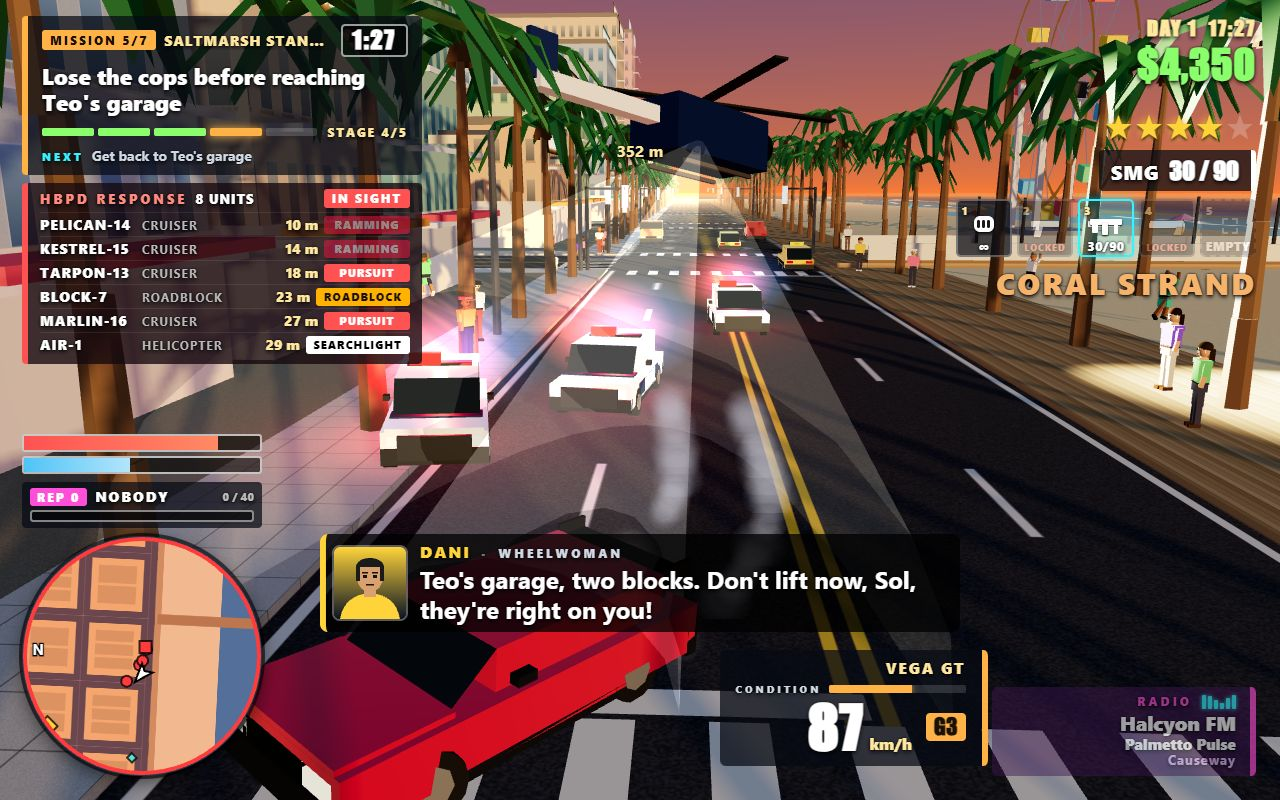
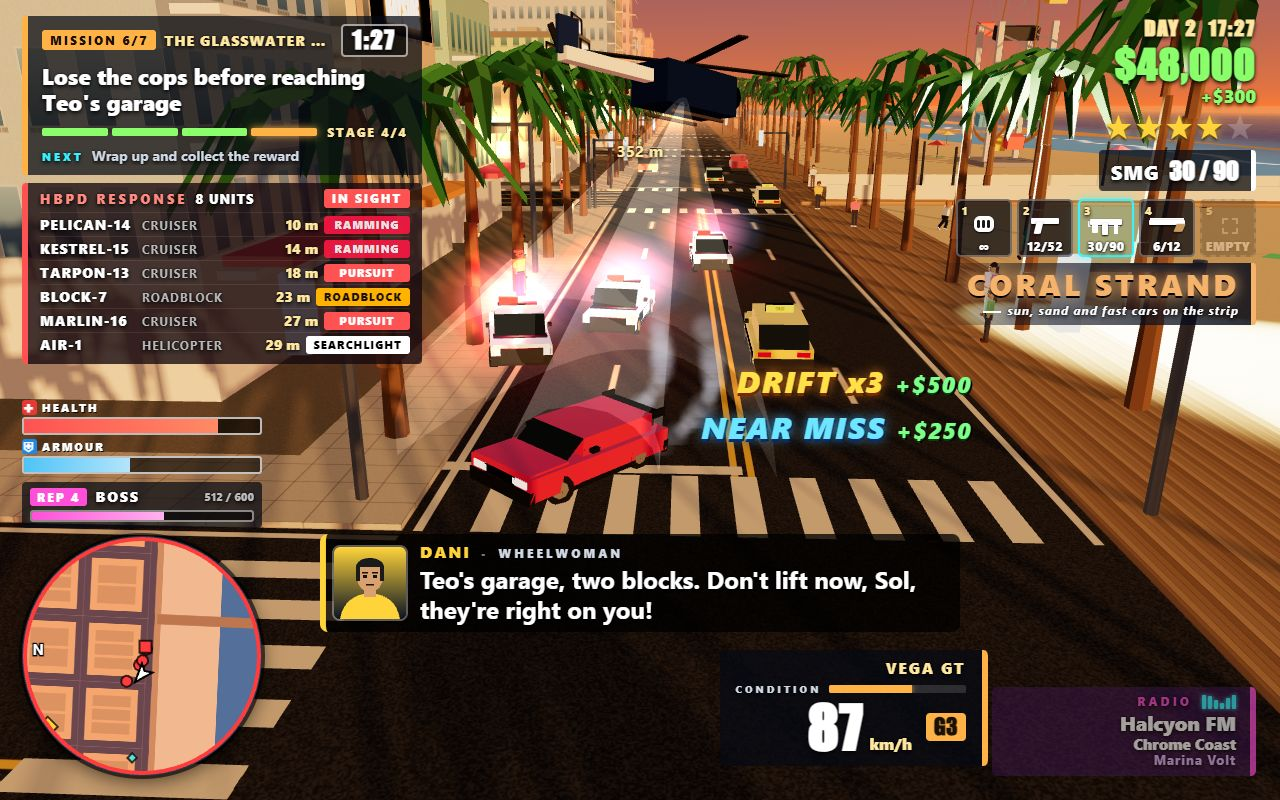
Cover: golden-hour grade, stunt feed, area cards, labelled bars, mid-game chase
- Stunt feed on the HUD fed by the driving code: held slides grow DRIFT xN,
  passing a car within ~2 m pays NEAR MISS +$250, both through the economy.
- District title card with a tagline per district replaces the plain text.
- HEALTH / ARMOUR labels and icons on the bars; bigger lightbar halos.
- Chase scene: Day 2, $48k, Boss rank 60%, mission 6 (The Glasswater Job),
  pistol/SMG/shotgun owned, warm grade with orange haze, sun and lamp glows,
  camera pulled back so the coupe sits in the lower-middle third.

diff --git a/game/src/shots.js b/game/src/shots.js
@@ -6,6 +6,7 @@
 import * as THREE from 'three';
 import { KEYS } from './input.js';
 import { seedShared } from './rng.js';
+import { glowTexture } from './textures.js';
 
 function drive(G, seconds, keys, stepSize = 1 / 60) {
   for (const k of keys) G.input.pressKey(k);
@@ -62,9 +63,15 @@ export async function stageShot(name, G) {
     const x0 = layout.roadX(4) + 48 + (Number.isFinite(shiftParam) ? shiftParam : 0);
     const coupe = G.fleet.spawn('coupe', x0, z, -Math.PI / 2, { color: '#c81e2e', role: 'player', owner: 'player' });
     G.player.enterVehicle(coupe);
-    G.economy.money = 4350;
+    // Mid-game: Day 2, five story missions done, Boss rank 60% of the way to Legend, three guns.
+    G.missions.restore({ completed: ['welcome', 'clock', 'neon', 'tail', 'docks'] });
+    G.world.sky.state.day = 2;
+    G.economy.money = 47250;
+    G.economy.rep = 512;
     G.player.health = 82;
     G.player.armor = 45;
+    G.weapons.give('pistol', 64);
+    G.weapons.give('shotgun', 18);
     G.weapons.give('smg', 120);
     G.weapons.select('smg');
     G.radio.setStation(0, true);
@@ -74,6 +81,8 @@ export async function stageShot(name, G) {
     G.traffic.spawnCar({ x: x0 + 34, z: layout.oceanZ + 1.75, yaw: Math.PI / 2, node: G.nav.node(6, 9), dir: 'e', lane: 0 }, 'sedan');
     G.traffic.spawnCar({ x: x0 + 52, z: layout.oceanZ + 5.25, yaw: Math.PI / 2, node: G.nav.node(6, 9), dir: 'e', lane: 1 }, 'pickup');
     G.traffic.spawnCar({ x: x0 + 48, z: layout.oceanZ - 5.25, yaw: -Math.PI / 2, node: G.nav.node(5, 9), dir: 'w', lane: 1 }, 'van');
+    // An oncoming taxi in the near eastbound lane: the coupe threads past it (the NEAR MISS).
+    G.traffic.spawnCar({ x: x0 - 30, z: layout.oceanZ + 1.75, yaw: Math.PI / 2, node: G.nav.node(5, 9), dir: 'e', lane: 0 }, 'taxi');
     const from = { x: x0 - 20, z };
     crowd(G, [
       [x0 - 15, layout.oceanZ - 9, false], [x0 - 19, layout.oceanZ - 8.4, false], [x0 - 9, layout.oceanZ - 9.6, true], [x0 + 2, layout.oceanZ - 8.8, false], [x0 + 10, layout.oceanZ - 9.2, true], [x0 + 22, layout.oceanZ - 9.4, false],
@@ -109,7 +118,7 @@ export async function stageShot(name, G) {
     // a tight lens that keeps the nearest palm crowns out of the corners; the helicopter hangs
     // low over the road behind the cruisers, in the clear sky under the objective, nose to us.
     // (?cam=dx,dy,dz,lx,ly,lz,fov,hx,hz,hy and ?shift=metres override these for composition reviews.)
-    const cam = [-8.5, 5.2, 2, 12, 0.6, 1, 46, 26.5, 0.3, 5.9];
+    const cam = [-19, 8.2, 2.4, 12, -2.2, 1, 48, 26.5, 0.3, 7.4];
     const camParam = new URLSearchParams(window.location.search).get('cam');
     if (camParam) camParam.split(',').forEach((n, i) => { if (Number.isFinite(Number.parseFloat(n))) cam[i] = Number.parseFloat(n); });
     G.police.summonHeli(v.x + cam[7], v.z + cam[8]);
@@ -124,15 +133,37 @@ export async function stageShot(name, G) {
     // A roadblock entry for the panel, forming just past the next corner, out of frame.
     const block = { x: v.x - 23, z: v.z, cruisers: [], officers: [] };
     G.police.roadblocks.push(block);
-    // Mission state for the panel: Saltmarsh Standoff at its "lose the police" stage, on the clock.
-    const docks = G.missions.defs.find((d) => d.id === 'docks');
-    const stage = docks.stages.findIndex((s) => s.objective === 'Lose the police');
-    G.missions.current = { def: docks, ctx: { G, def: docks, data: {} }, stage, time: 0 };
+    // Mission state for the panel: The Glasswater Job (mission 6) at its getaway stage, on the clock.
+    const bank = G.missions.defs.find((d) => d.id === 'bank');
+    const stage = bank.stages.findIndex((s) => typeof s.objective === 'string' && s.objective.includes('lose the heat'));
+    G.missions.current = { def: bank, ctx: { G, def: bank, data: {} }, stage, time: 0 };
     G.hud.setTimer(87);
-    // Warm sunset haze and a hotter grade for the cover.
-    G.world.scene.fog.near = 70;
-    G.world.scene.fog.far = 520;
-    G.renderer.toneMappingExposure = 1.12;
+    // Golden-hour grade: brighter exposure, warmer sun and sky fill, an orange haze on the horizon.
+    G.world.scene.fog.near = 60;
+    G.world.scene.fog.far = 480;
+    G.world.scene.fog.color.set('#ffa461');
+    G.renderer.toneMappingExposure = 1.24;
+    G.world.sky.sun.color.set('#ffb468');
+    G.world.sky.sun.intensity *= 1.15;
+    G.world.scene.traverse((o) => {
+      if (o.isHemisphereLight) { o.color.set('#ffc890'); o.groundColor.set('#d0885a'); }
+    });
+    // Cheap bloom: additive halos on the sun and on the street lamps near the chase.
+    const halo = (color, opacity) => new THREE.SpriteMaterial({ map: glowTexture(), color, transparent: true, opacity, blending: THREE.AdditiveBlending, depthWrite: false, fog: false });
+    const sunGlow = new THREE.Sprite(halo('#ffb060', 0.85));
+    sunGlow.material.depthTest = false;
+    sunGlow.renderOrder = -8;
+    sunGlow.position.copy(G.world.sky.state.sunDir).multiplyScalar(420).add(new THREE.Vector3(camPos.x, camPos.y, camPos.z));
+    sunGlow.scale.set(420, 420, 1);
+    G.world.scene.add(sunGlow);
+    const lampMat = halo('#ffc870', 0.75);
+    for (const l of G.world.props.lamps) {
+      if (Math.hypot(l.x - v.x, l.z - v.z) > 160) continue;
+      const s = new THREE.Sprite(lampMat);
+      s.position.set(l.x, 6.6, l.z);
+      s.scale.set(3.6, 3.6, 1);
+      G.world.scene.add(s);
+    }
     finish();
     G.hud.say('Dani', "Teo's garage, two blocks. Don't lift now, Sol, they're right on you!", 8, '#ffd43b');
     G.hud.update(0.016);

diff --git a/game/src/hud/hud.js b/game/src/hud/hud.js
@@ -93,6 +93,7 @@ function gearFor(v, kmh) {
 const SLOT_IDS = ['fists', 'pistol', 'smg', 'shotgun', null];
 const CALLSIGNS = ['MARLIN', 'HERON', 'OSPREY', 'TARPON', 'PELICAN', 'KESTREL'];
 const POLICE_ROWS = 6;
+const STUNT_LIFE = 2.6;
 
 export function createHud(G) {
   const dom = {
@@ -108,7 +109,9 @@ export function createHud(G) {
     policeStatus: el('police-status'), policeRows: el('police-rows'), hotbar: el('hotbar'), repChip: el('rep-chip'), repName: el('rep-name'),
     repNext: el('rep-next'), repFill: el('rep-fill'), condFill: el('cond-fill'), gear: el('gear'), radioSong: el('radio-song'),
     radioArtist: el('radio-artist'), radioEq: el('radio-eq'), subPortrait: el('sub-portrait'), subRole: el('sub-role'),
+    districtName: el('district-name'), districtTag: el('district-tag'), stuntFeed: el('stunt-feed'),
   };
+  const stunts = [];
   const eqBars = Array.from(dom.radioEq.children);
   let portraitName = null;
   const starEls = [];
@@ -333,6 +336,26 @@ export function createHud(G) {
     flashWeapon() {
       state.weaponFlash = 1;
     },
+    /** A stunt callout ("DRIFT x3", "NEAR MISS") that pays `cash` through the economy; `key` reuses one live popup. */
+    stunt(text, cash, cls = '', key = null) {
+      let s = key ? stunts.find((x) => x.key === key && x.t < STUNT_LIFE - 0.8) : null;
+      if (!s) {
+        const n = document.createElement('div');
+        n.className = `stunt ${cls}`;
+        dom.stuntFeed.appendChild(n);
+        s = { el: n, t: 0, key, total: 0 };
+        stunts.push(s);
+        while (stunts.length > 4) stunts.shift().el.remove();
+      }
+      s.t = 0;
+      s.total += cash;
+      s.el.textContent = text;
+      const c = document.createElement('span');
+      c.className = 'cash';
+      c.textContent = `+$${s.total.toLocaleString()}`;
+      s.el.appendChild(c);
+      G.economy.addMoney(cash);
+    },
     hitMarker(kill) {
       state.hitTimer = 0.25;
       dom.hitmarker.classList.toggle('kill', !!kill);
@@ -465,7 +488,19 @@ export function createHud(G) {
         state.districtTimer = 4;
         dom.district.style.color = DISTRICTS[districtId] ? DISTRICTS[districtId].color : '#fff';
       }
-      dom.district.textContent = districtName;
+      dom.districtName.textContent = districtName;
+      dom.districtTag.textContent = DISTRICTS[districtId] ? DISTRICTS[districtId].tagline || '' : '';
+      // Stunt callouts float up and fade on the HUD clock.
+      for (let i = stunts.length - 1; i >= 0; i -= 1) {
+        const s = stunts[i];
+        s.t += dt;
+        s.el.style.transform = `translateY(${-s.t * 18}px)`;
+        s.el.style.opacity = String(Math.max(0, Math.min(1, (STUNT_LIFE - s.t) / 0.8)));
+        if (s.t >= STUNT_LIFE) {
+          s.el.remove();
+          stunts.splice(i, 1);
+        }
+      }
       state.districtTimer = Math.max(0, state.districtTimer - dt);
       dom.district.classList.toggle('big', state.districtTimer > 0);
       // Subtitles.

diff --git a/game/src/hud/styles.css b/game/src/hud/styles.css
@@ -92,8 +92,23 @@ html, body { margin: 0; height: 100%; overflow: hidden; background: #0b1424; fon
 .icon-shotgun::after { left: 26px; top: 11px; width: 9px; height: 8px; transform: skewX(-24deg); background: #c99a5b; }
 .icon-empty::before { left: 12px; top: 5px; width: 12px; height: 12px; border: 2px dashed rgba(255,255,255,0.6); background: transparent; box-shadow: none; }
 .icon-empty::after { display: none; }
-#district { margin-top: 6px; font-size: 18px; font-weight: 800; letter-spacing: 2px; text-transform: uppercase; transition: font-size 0.3s; }
-#district.big { font-size: 30px; }
+#district { margin-top: 6px; display: flex; flex-direction: column; align-items: flex-end; text-align: right; }
+#district-name { font-size: 18px; font-weight: 800; letter-spacing: 2px; text-transform: uppercase; }
+#district-tag { display: none; font-size: 12px; font-weight: 700; letter-spacing: 1px; color: #fff; font-style: italic; text-transform: none; }
+#district.big { background: linear-gradient(270deg, rgba(8,12,28,0.85), rgba(8,12,28,0.55) 70%, rgba(8,12,28,0)); border-right: 5px solid currentColor; padding: 6px 12px 7px 40px; border-radius: 3px; }
+#district.big #district-name { font-size: 30px; font-weight: 900; letter-spacing: 3px; line-height: 1; text-shadow: 0 2px 0 #000, 0 0 14px currentColor; }
+#district.big #district-tag { display: block; margin-top: 3px; }
+#district.big #district-tag::before { content: ''; display: inline-block; width: 18px; height: 2px; background: currentColor; vertical-align: middle; margin-right: 6px; }
+/* Stunt feed: drift and near-miss callouts that float up and fade, just under the screen centre-right. */
+#stunt-feed { position: absolute; right: 24%; bottom: 44%; display: flex; flex-direction: column-reverse; align-items: flex-end; gap: 6px; pointer-events: none; }
+.stunt { font-size: 30px; font-weight: 900; font-style: italic; letter-spacing: 2px; color: #ffe14a; text-shadow: 0 3px 0 #7a2a00, 0 0 12px rgba(255,140,30,0.9), 2px 2px 0 #000; white-space: nowrap; }
+.stunt .cash { margin-left: 10px; font-size: 22px; color: #7dff8a; text-shadow: 0 2px 0 #0b3d12, 2px 2px 0 #000; }
+.stunt.near { color: #6fe6ff; text-shadow: 0 3px 0 #0a2a6a, 0 0 12px rgba(60,180,255,0.9), 2px 2px 0 #000; }
+.bar-label { display: flex; align-items: center; gap: 5px; font-size: 11px; font-weight: 900; letter-spacing: 2px; color: #fff; margin-top: 4px; text-shadow: 1px 1px 0 #000; }
+.bar-icon { display: inline-flex; align-items: center; justify-content: center; width: 15px; height: 15px; border-radius: 3px; font-size: 11px; color: #fff; text-shadow: none; }
+.bar-icon.hp { background: #e53935; }
+.bar-icon.ar { background: #1e88e5; }
+.bar-label + .bar { margin-top: 2px; }
 
 /* Bottom left: minimap + bars */
 #bottom-left { position: absolute; left: 22px; bottom: 20px; }

diff --git a/game/src/main.js b/game/src/main.js
@@ -285,12 +285,47 @@ function arrest() {
   });
 }
 
+const stunt = { drift: 0, mult: 1, near: new WeakMap() };
+/**
+ * Driving stunts, paid through the HUD feed: a held slide (lateral slip over 3 m/s at speed) grows
+ * a DRIFT multiplier every 0.2 s; passing another car within about 2 m is a NEAR MISS.
+ */
+function updateStunts(h) {
+  const p = G.player;
+  const v = p.vehicle;
+  if (p.state !== 'car' || !v || v.wrecked) {
+    stunt.drift = 0;
+    stunt.mult = 1;
+    return;
+  }
+  if (Math.abs(v.slip || 0) > 3 && Math.abs(v.speed) > 8) {
+    stunt.drift += h;
+    const mult = Math.min(9, 1 + Math.floor(stunt.drift / 0.2));
+    if (mult > stunt.mult && mult >= 2) G.hud.stunt(`DRIFT x${mult}`, 100 * mult, 'drift', 'drift');
+    stunt.mult = mult;
+  } else {
+    stunt.drift = Math.max(0, stunt.drift - h * 2);
+    if (stunt.drift === 0) stunt.mult = 1;
+  }
+  if (Math.abs(v.speed) < 12) return;
+  for (const o of G.fleet.vehicles) {
+    if (o === v || o.wrecked) continue;
+    const d = Math.hypot(o.x - v.x, o.z - v.z);
+    // Centres within ~4.2 m side by side: about 2 m of air between the bodies.
+    if (d < 4.2 && d > 2.2 && !stunt.near.has(o)) {
+      stunt.near.set(o, true);
+      G.hud.stunt('NEAR MISS', 250, 'near');
+    } else if (d > 12 && stunt.near.has(o)) stunt.near.delete(o);
+  }
+}
+
 /** One simulation step of h seconds (edge-triggered keys only count on the first substep of a frame). */
 function step(h) {
   const p = G.player;
   p.update(h, G.input);
   G.weapons.update(h, G.input);
   G.fleet.update(h, G.world.time);
+  updateStunts(h);
   G.traffic.update(h);
   G.pedestrians.update(h);
   G.police.update(h);

diff --git a/game/src/config.js b/game/src/config.js
@@ -26,11 +26,11 @@ CITY.z0 = -CITY.height / 2;
 
 /** District ids, names and their map colours. */
 export const DISTRICTS = {
-  coral: { id: 'coral', name: 'Coral Strand', color: '#f6b36b', mapColor: '#f3c27e' },
-  glasswater: { id: 'glasswater', name: 'Glasswater Downtown', color: '#7fd3ff', mapColor: '#8ec9e8' },
-  neon: { id: 'neon', name: 'Neon Row', color: '#ff6ad5', mapColor: '#e98ad0' },
-  palmetto: { id: 'palmetto', name: 'Palmetto Heights', color: '#9be37a', mapColor: '#a9d98a' },
-  saltmarsh: { id: 'saltmarsh', name: 'Saltmarsh Docks', color: '#c9b48a', mapColor: '#c7b793' },
+  coral: { id: 'coral', name: 'Coral Strand', color: '#f6b36b', mapColor: '#f3c27e', tagline: 'sun, sand and fast cars on the strip' },
+  glasswater: { id: 'glasswater', name: 'Glasswater Downtown', color: '#7fd3ff', mapColor: '#8ec9e8', tagline: 'glass towers, bank vaults and dirty money' },
+  neon: { id: 'neon', name: 'Neon Row', color: '#ff6ad5', mapColor: '#e98ad0', tagline: 'pink lights, loud bars and Tide Runner turf' },
+  palmetto: { id: 'palmetto', name: 'Palmetto Heights', color: '#9be37a', mapColor: '#a9d98a', tagline: 'gated villas where old money hides' },
+  saltmarsh: { id: 'saltmarsh', name: 'Saltmarsh Docks', color: '#c9b48a', mapColor: '#c7b793', tagline: 'cranes, containers and no questions asked' },
 };
 
 export const PLAYER = {

diff --git a/game/index.html b/game/index.html
@@ -32,11 +32,12 @@
     <div id="stars"></div>
     <div id="weapon"><span id="weapon-name">Fists</span><span id="weapon-ammo"></span></div>
     <div id="hotbar"></div>
-    <div id="district"></div>
+    <div id="district"><span id="district-name"></span><span id="district-tag"></span></div>
   </div>
+  <div id="stunt-feed"></div>
   <div id="notifications"></div>
   <div id="bottom-left">
-    <div id="bars"><div class="bar"><div class="fill" id="bar-health"></div></div><div class="bar"><div class="fill" id="bar-armor"></div></div></div>
+    <div id="bars"><div class="bar-label"><span class="bar-icon hp">✚</span>HEALTH</div><div class="bar"><div class="fill" id="bar-health"></div></div><div class="bar-label"><span class="bar-icon ar">⛨</span>ARMOUR</div><div class="bar"><div class="fill" id="bar-armor"></div></div></div>
     <div id="rep"><div id="rep-head"><span id="rep-chip">REP 0</span><span id="rep-name">Nobody</span><span id="rep-next"></span></div><div id="rep-bar"><div id="rep-fill"></div></div></div>
     <canvas id="minimap" width="240" height="240"></canvas>
   </div>

diff --git a/game/src/vehicles/models.js b/game/src/vehicles/models.js
@@ -291,10 +291,10 @@ export function createVehicleModel(type, color) {
     const glowTex = ensureTextures().glow;
     const spriteR = new THREE.Sprite(new THREE.SpriteMaterial({ map: glowTex, color: '#ff2a2a', transparent: true, opacity: 0.95, blending: THREE.AdditiveBlending, depthWrite: false }));
     spriteR.position.set(-0.38, barY + 0.1, -0.55);
-    spriteR.scale.set(3.8, 2.7, 1);
+    spriteR.scale.set(5.2, 3.6, 1);
     const spriteB = new THREE.Sprite(new THREE.SpriteMaterial({ map: glowTex, color: '#2a6aff', transparent: true, opacity: 0.95, blending: THREE.AdditiveBlending, depthWrite: false }));
     spriteB.position.set(0.38, barY + 0.1, -0.55);
-    spriteB.scale.set(3.8, 2.7, 1);
+    spriteB.scale.set(5.2, 3.6, 1);
     bodyGroup.add(spriteR, spriteB);
     lightbar = { red, blue, glowR, glowB, spriteR, spriteB, phase: 0 };
   }
